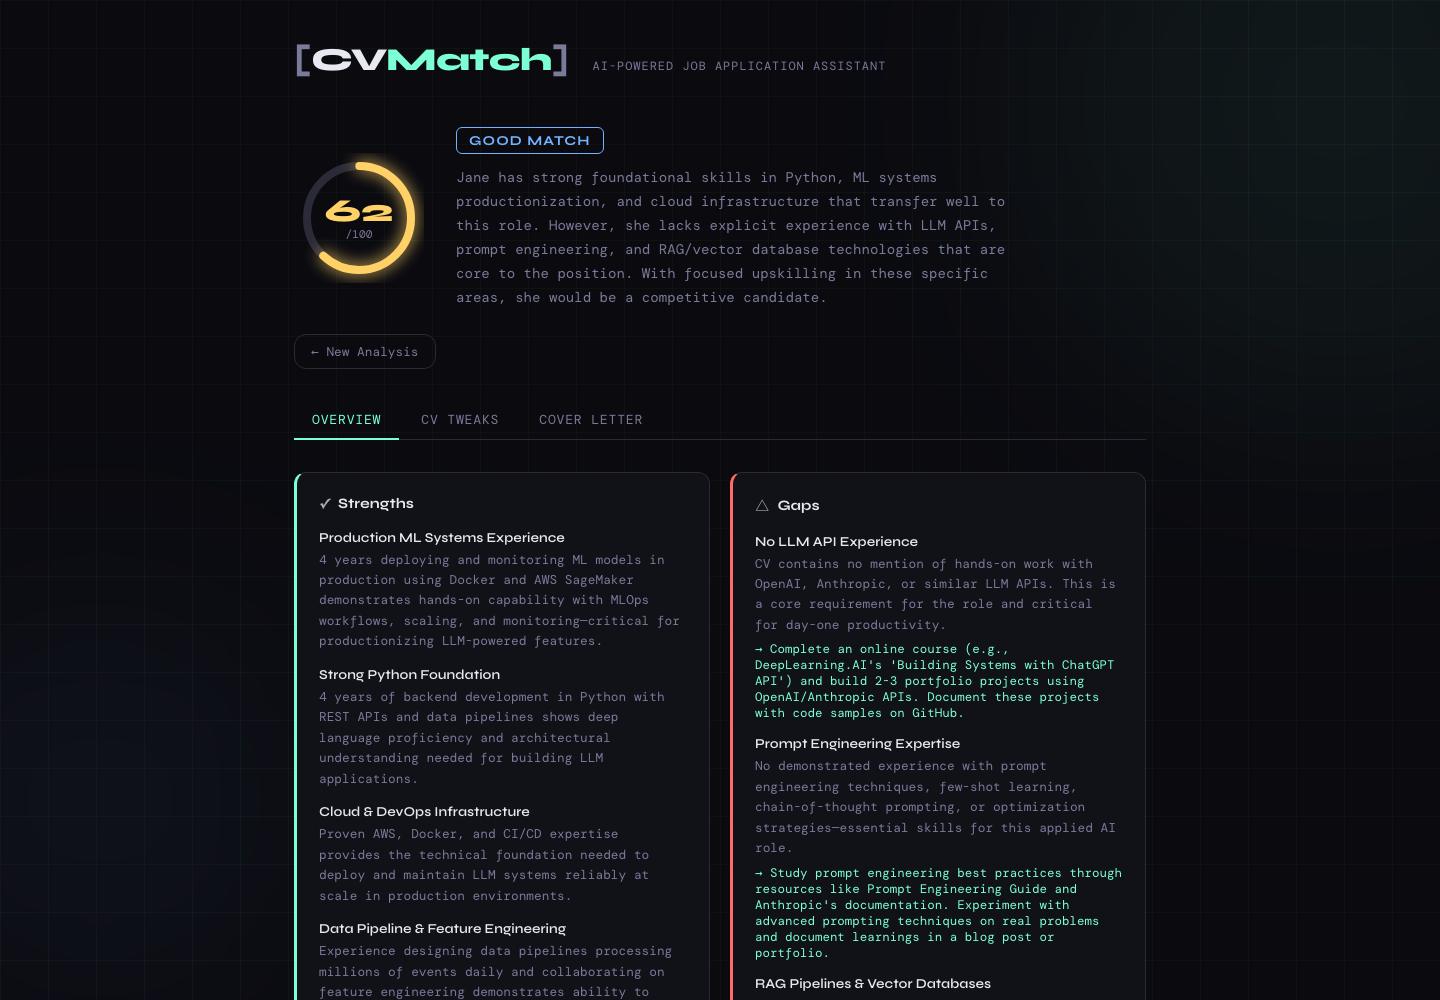
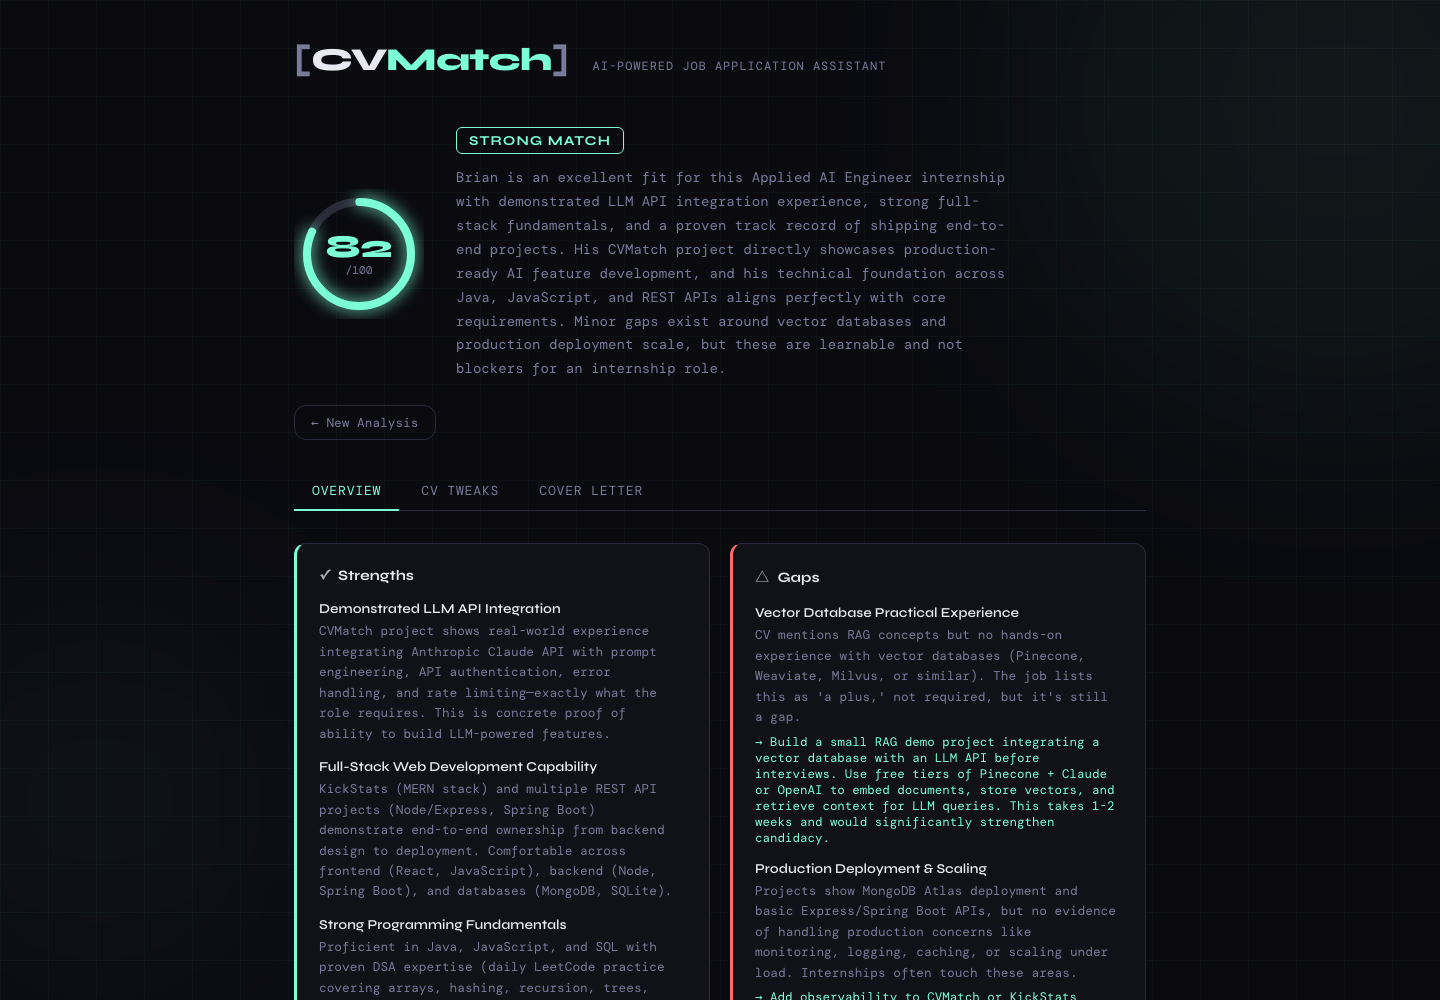
Add homepage screenshot and use a realistic CV for the results demo
Results screenshot now uses a demo CV based on the real CVMatch author's
background (skills/projects/education, personal contact details omitted)
run against an Applied AI Engineer job description, alongside a fresh
homepage screenshot.

diff --git a/README.md b/README.md
@@ -6,7 +6,8 @@ Built with React, Node.js/Express, and the Anthropic Claude API.
 
 ![Status](https://img.shields.io/badge/status-active-brightgreen) ![Node](https://img.shields.io/badge/node-%3E%3D18-blue) ![React](https://img.shields.io/badge/react-18-61dafb)
 
-![CVMatch screenshot](docs/screenshot.png)
+![CVMatch homepage](docs/homepage.png)
+![CVMatch analysis results](docs/screenshot.png)
 
 ---
 
